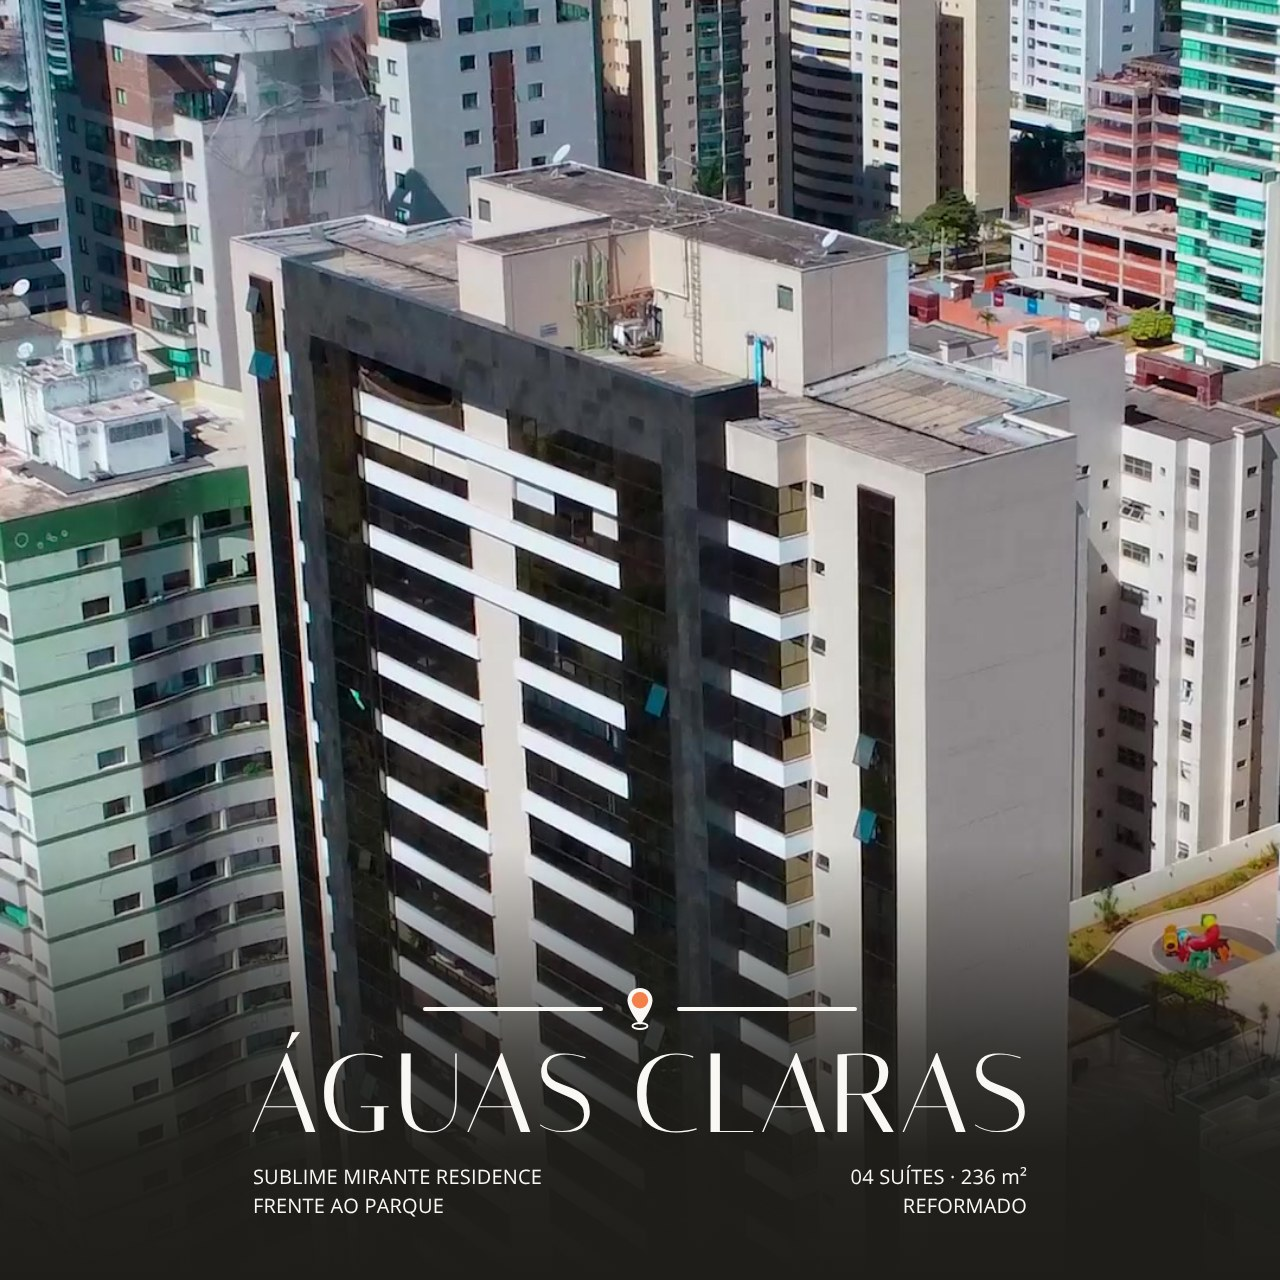
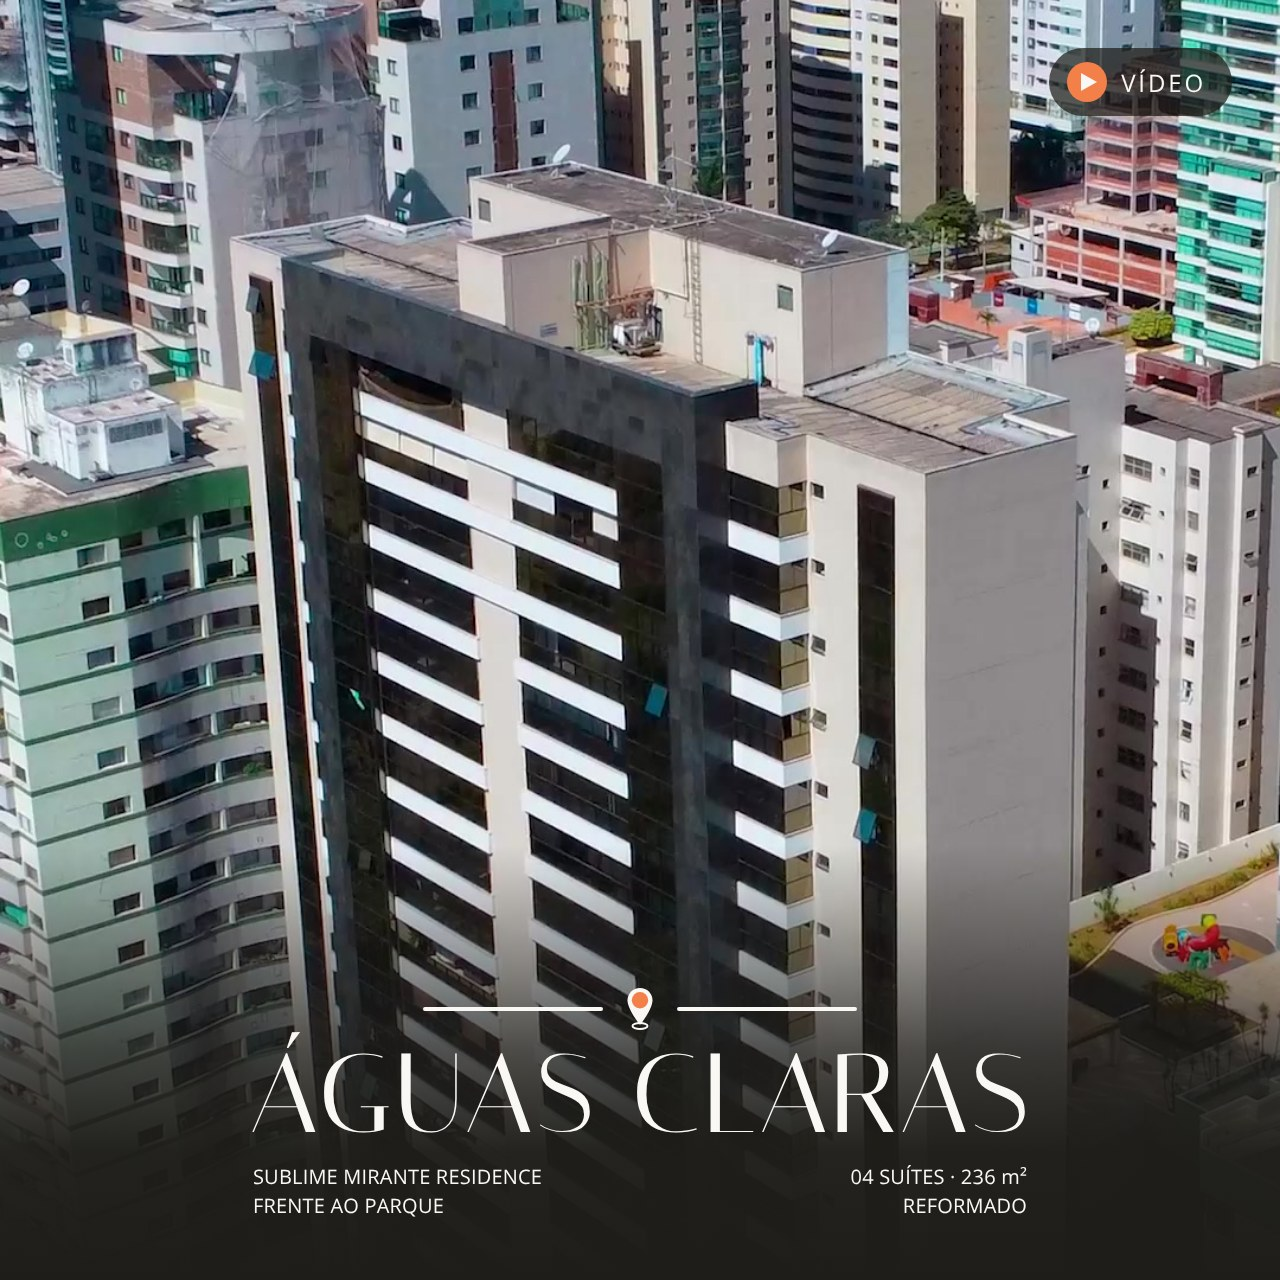
AC-0303: vídeo no anúncio, selo de vídeo na capa, escriturado e registrado com financiamento e FGTS (#23)
capas.js ganha o campo opcional capa.video (selo ▶ Vídeo no alto da capa).

Claude-Session: https://claude.ai/code/session_01SeCGvF7X5fSmi9onwu3fDq

Changed region(s): [[0.8125, 0.0312, 0.9688, 0.0938]]

diff --git a/docs/imoveis/AC-0303.html b/docs/imoveis/AC-0303.html
@@ -4,12 +4,12 @@
 <meta charset="utf-8">
 <meta name="viewport" content="width=device-width, initial-scale=1">
 <title>Apartamento com 4 suítes à venda em Águas Claras, DF · R$ 2,7 milhões</title>
-<meta name="description" content="Apartamento à venda em Águas Claras Norte, DF: 236 m² · 4 quartos · 4 vagas. R$ 2.700.000. Escriturado. Código AC-0303, com fotos. Fale com o corretor Fabrício Borges.">
+<meta name="description" content="Apartamento à venda em Águas Claras Norte, DF: 236 m² · 4 quartos · 4 vagas. R$ 2.700.000. Escriturado. Código AC-0303, com fotos e vídeo. Fale com o corretor Fabrício Borges.">
 <link rel="canonical" href="https://fabricioborgesimob.com.br/imoveis/AC-0303.html">
 <meta property="og:type" content="website">
 <meta property="og:site_name" content="Fabrício Borges · Negócios Imobiliários">
 <meta property="og:title" content="Apartamento com 4 suítes à venda em Águas Claras, DF · R$ 2,7 milhões">
-<meta property="og:description" content="Apartamento à venda em Águas Claras Norte, DF: 236 m² · 4 quartos · 4 vagas. R$ 2.700.000. Escriturado. Código AC-0303, com fotos. Fale com o corretor Fabrício Borges.">
+<meta property="og:description" content="Apartamento à venda em Águas Claras Norte, DF: 236 m² · 4 quartos · 4 vagas. R$ 2.700.000. Escriturado. Código AC-0303, com fotos e vídeo. Fale com o corretor Fabrício Borges.">
 <meta property="og:url" content="https://fabricioborgesimob.com.br/imoveis/AC-0303.html">
 <meta property="og:locale" content="pt_BR">
 <meta property="og:image" content="https://fabricioborgesimob.com.br/fotos/AC-0303/capa.jpg">
@@ -28,7 +28,7 @@ document.addEventListener('click',function(e){var a=e.target.closest&&e.target.c
 var p={origem:a.getAttribute('data-origem')||'link',pagina:location.pathname,imovel:a.getAttribute('data-codigo')||(document.body.getAttribute('data-codigo')||'')};
 if(a.href.indexOf('wa.me/5561995620101')>-1){gtag('event','contato_whatsapp',p);}else{gtag('event','contato_cvt',p);}},true);
 </script>
-<script type="application/ld+json">{"@context": "https://schema.org", "@type": "RealEstateListing", "name": "Apartamento de 236 m² com 4 suítes, reformado, de frente para o parque", "url": "https://fabricioborgesimob.com.br/imoveis/AC-0303.html", "description": "Acordar com o verde do Parque de Águas Claras na janela, numa vista que não vai ser tapada. Este apartamento de 236 m² no Sublime Mirante Residence passou por uma reforma completa assinada pela arquiteta Denise Zuba, com mármore em todo o piso, marcenaria Ornare e iluminação automatizada. É chegar e morar, sem obra e sem dor de cabeça.", "image": ["https://fabricioborgesimob.com.br/fotos/AC-0303/capa.jpg", "https://fabricioborgesimob.com.br/fotos/AC-0303/01.jpg", "https://fabricioborgesimob.com.br/fotos/AC-0303/02.jpg", "https://fabricioborgesimob.com.br/fotos/AC-0303/03.jpg", "https://fabricioborgesimob.com.br/fotos/AC-0303/04.jpg", "https://fabricioborgesimob.com.br/fotos/AC-0303/05.jpg"], "offers": {"@type": "Offer", "price": 2700000, "priceCurrency": "BRL", "availability": "https://schema.org/InStock", "url": "https://fabricioborgesimob.com.br/imoveis/AC-0303.html", "seller": {"@type": "RealEstateAgent", "name": "Fabrício Borges · Negócios Imobiliários", "url": "https://fabricioborgesimob.com.br", "telephone": "+55 61 99562-0101"}, "itemOffered": {"@type": "Apartment", "name": "Apartamento de 236 m² com 4 suítes, reformado, de frente para o parque", "floorSize": {"@type": "QuantitativeValue", "value": 236, "unitCode": "MTK"}, "numberOfRooms": 4, "address": {"@type": "PostalAddress", "addressLocality": "Águas Claras Norte", "addressRegion": "DF", "addressCountry": "BR"}}}}</script>
+<script type="application/ld+json">{"@context": "https://schema.org", "@type": "RealEstateListing", "name": "Apartamento de 236 m² com 4 suítes, reformado, de frente para o parque", "url": "https://fabricioborgesimob.com.br/imoveis/AC-0303.html", "description": "Acordar com o verde do Parque de Águas Claras na janela, numa vista que não vai ser tapada. Este apartamento de 236 m² no Sublime Mirante Residence passou por uma reforma completa assinada pela arquiteta Denise Zuba, com mármore em todo o piso, marcenaria Ornare e iluminação automatizada. É chegar e morar, sem obra e sem dor de cabeça. Imóvel escriturado e registrado: aceita financiamento bancário e uso do FGTS.", "image": ["https://fabricioborgesimob.com.br/fotos/AC-0303/capa.jpg", "https://fabricioborgesimob.com.br/fotos/AC-0303/01.jpg", "https://fabricioborgesimob.com.br/fotos/AC-0303/02.jpg", "https://fabricioborgesimob.com.br/fotos/AC-0303/03.jpg", "https://fabricioborgesimob.com.br/fotos/AC-0303/04.jpg", "https://fabricioborgesimob.com.br/fotos/AC-0303/05.jpg"], "offers": {"@type": "Offer", "price": 2700000, "priceCurrency": "BRL", "availability": "https://schema.org/InStock", "url": "https://fabricioborgesimob.com.br/imoveis/AC-0303.html", "seller": {"@type": "RealEstateAgent", "name": "Fabrício Borges · Negócios Imobiliários", "url": "https://fabricioborgesimob.com.br", "telephone": "+55 61 99562-0101"}, "itemOffered": {"@type": "Apartment", "name": "Apartamento de 236 m² com 4 suítes, reformado, de frente para o parque", "floorSize": {"@type": "QuantitativeValue", "value": 236, "unitCode": "MTK"}, "numberOfRooms": 4, "address": {"@type": "PostalAddress", "addressLocality": "Águas Claras Norte", "addressRegion": "DF", "addressCountry": "BR"}}}}</script>
 <script type="application/ld+json">{"@context": "https://schema.org", "@type": "BreadcrumbList", "itemListElement": [{"@type": "ListItem", "position": 1, "name": "Imóveis à venda", "item": "https://fabricioborgesimob.com.br/imoveis.html"}, {"@type": "ListItem", "position": 2, "name": "Águas Claras", "item": "https://fabricioborgesimob.com.br/regioes/aguas-claras.html"}, {"@type": "ListItem", "position": 3, "name": "Código AC-0303", "item": "https://fabricioborgesimob.com.br/imoveis/AC-0303.html"}]}</script>
 </head>
 <body data-codigo="AC-0303" class="com-barra">
@@ -65,10 +65,10 @@ if(a.href.indexOf('wa.me/5561995620101')>-1){gtag('event','contato_whatsapp',p);
 <div class="specs"><div><span>Área construída</span><strong>236 m²</strong></div><div><span>Quartos</span><strong>4 suítes</strong></div><div><span>Vagas</span><strong>4</strong></div></div>
 <section style="display:flex;flex-direction:column;gap:12px">
 <h2>Sobre o imóvel</h2>
-<p style="line-height:1.7;color:#33334A">Acordar com o verde do Parque de Águas Claras na janela, numa vista que não vai ser tapada. Este apartamento de 236 m² no Sublime Mirante Residence passou por uma reforma completa assinada pela arquiteta Denise Zuba, com mármore em todo o piso, marcenaria Ornare e iluminação automatizada. É chegar e morar, sem obra e sem dor de cabeça.</p>
-<div class="tags"><span>4 suítes, a master com closet e banheira</span><span>Sala ampla com entrada exclusiva, integrada à varanda com vista definitiva para o parque</span><span>Cozinha ampla com área de serviço separada</span><span>Piso em mármore Crema Marfil e sala revestida em mármore Travertino</span><span>Armários Ornare, portas e portais Cinex</span><span>Iluminação automatizada em LED e ar-condicionado de última geração</span><span>4 vagas, sendo 3 soltas</span><span>Lazer completo: piscina com raia, academia, sauna, cinema, quadra, salão de festas, espaço gourmet e playground</span><span>Perto do Shopping Felicità, do Comper, do Big Box 24h e da Bonapan</span><span>Entre duas estações do metrô, com saída rápida para a EPTG</span></div>
+<p style="line-height:1.7;color:#33334A">Acordar com o verde do Parque de Águas Claras na janela, numa vista que não vai ser tapada. Este apartamento de 236 m² no Sublime Mirante Residence passou por uma reforma completa assinada pela arquiteta Denise Zuba, com mármore em todo o piso, marcenaria Ornare e iluminação automatizada. É chegar e morar, sem obra e sem dor de cabeça. Imóvel escriturado e registrado: aceita financiamento bancário e uso do FGTS.</p>
+<div class="tags"><span>4 suítes, a master com closet e banheira</span><span>Sala ampla com entrada exclusiva, integrada à varanda com vista definitiva para o parque</span><span>Cozinha ampla com área de serviço separada</span><span>Piso em mármore Crema Marfil e sala revestida em mármore Travertino</span><span>Armários Ornare, portas e portais Cinex</span><span>Iluminação automatizada em LED e ar-condicionado de última geração</span><span>4 vagas, sendo 3 soltas</span><span>Lazer completo: piscina com raia, academia, sauna, cinema, quadra, salão de festas, espaço gourmet e playground</span><span>Perto do Shopping Felicità, do Comper, do Big Box 24h e da Bonapan</span><span>Entre duas estações do metrô, com saída rápida para a EPTG</span><span>Escriturado e registrado, aceita financiamento e FGTS</span></div>
 </section>
-<p><a href="https://www.youtube.com/@FabricioBorgesCorretorIm-sb5mb" rel="noopener" style="font-weight:600"><svg aria-hidden="true" width="18" height="18" viewBox="0 0 24 24" fill="none" stroke="currentColor" stroke-width="1.8"><rect x="2.5" y="5" width="19" height="14" rx="4"/><path d="M10 9.2v5.6l4.8-2.8z" fill="currentColor" stroke="none"/></svg> Veja os vídeos dos imóveis no meu canal do YouTube</a></p>
+<section style="display:flex;flex-direction:column;gap:12px"><h2>Vídeo do imóvel</h2><div class="video vertical"><iframe src="https://www.youtube-nocookie.com/embed/gqdadq8QqXs" title="Vídeo do imóvel AC-0303" loading="lazy" allow="accelerometer; encrypted-media; gyroscope; picture-in-picture" allowfullscreen></iframe></div><p style="font-size:15px;color:var(--texto-2)"><a href="https://www.youtube.com/watch?v=gqdadq8QqXs" rel="noopener">Assistir no YouTube</a></p><a href="https://www.youtube.com/@FabricioBorgesCorretorIm-sb5mb" rel="noopener" style="font-weight:600"><svg aria-hidden="true" width="18" height="18" viewBox="0 0 24 24" fill="none" stroke="currentColor" stroke-width="1.8"><rect x="2.5" y="5" width="19" height="14" rx="4"/><path d="M10 9.2v5.6l4.8-2.8z" fill="currentColor" stroke="none"/></svg> Ver mais vídeos no meu canal</a></section>
 <section class="doc-box doc-escriturado">
 <h2 style="font-size:22px">Situação do documento: escriturado</h2>
 <p style="line-height:1.6;color:#33334A">Este imóvel tem escritura e matrícula registradas em cartório. A compra pode ser financiada pelos bancos e a transferência é feita direto no cartório.</p>

diff --git a/ferramentas/capas.js b/ferramentas/capas.js
@@ -3,7 +3,8 @@
 // Imóveis com "canva" em "capa" usam a capa feita no Canva (cópia do modelo "Capa VP")
 // e salva em fotos/CODIGO/capa.jpg; este script não mexe nelas.
 // Campos de "capa": foto (caminho da foto de fundo), local (texto grande),
-// esquerda e direita (até 2 linhas cada), foco (posição da foto, ex. "50% 50%").
+// esquerda e direita (até 2 linhas cada), foco (posição da foto, ex. "50% 50%"),
+// video (true = selo "▶ Vídeo" no alto da capa, para anúncio com vídeo).
 const fs = require('fs');
 const path = require('path');
 const { chromium } = require('playwright');
@@ -32,9 +33,13 @@ body { width: 1280px; height: 1280px; position: relative; overflow: hidden; back
 h1 { font-family: Titulo; font-weight: 400; text-align: center; font-size: ${c.tamanho || 112}px; line-height: 1.05; letter-spacing: .02em; text-transform: uppercase; white-space: nowrap; margin-top: 4px; }
 .info { display: flex; justify-content: space-between; gap: 40px; margin-top: 8px; padding: 0 4px; font-family: Texto; font-size: 20px; letter-spacing: .01em; line-height: 1.45; }
 .info div:last-child { text-align: right; }
+.selo { position: absolute; top: 48px; right: 48px; display: flex; align-items: center; gap: 14px; padding: 14px 26px 14px 18px; border-radius: 999px; background: rgba(30,29,25,.72); color: #F9F8F4; font-family: Texto; font-size: 24px; letter-spacing: .12em; text-transform: uppercase; }
+.selo b { display: flex; align-items: center; justify-content: center; width: 40px; height: 40px; border-radius: 50%; background: #F38049; }
+.selo svg { width: 16px; height: 18px; margin-left: 3px; }
 </style></head><body>
 <img class="foto" src="${foto}">
 <div class="veu"></div>
+${c.video ? '<div class="selo"><b><svg viewBox="0 0 16 18"><path fill="#F9F8F4" d="M0 0v18l16-9z"/></svg></b>Vídeo</div>' : ''}
 <div class="base"><div class="bloco">
 <div class="pino"><i></i><svg viewBox="0 0 30 46"><ellipse cx="15" cy="40" rx="7.5" ry="3" fill="none" stroke="#F9F8F4" stroke-width="2"/><path fill="#F9F8F4" d="M15 2C8 2 2.5 7.5 2.5 14.3 2.5 23.5 15 39 15 39s12.5-15.5 12.5-24.7C27.5 7.5 22 2 15 2z"/><circle cx="15" cy="14.3" r="8.2" fill="#F38049"/></svg><i></i></div>
 <h1>${esc(c.local)}</h1>

diff --git a/docs/regioes/aguas-claras.html b/docs/regioes/aguas-claras.html
@@ -76,7 +76,7 @@ if(a.href.indexOf('wa.me/5561995620101')>-1){gtag('event','contato_whatsapp',p);
 <select name="ordem" style="width:auto"><option value="recentes">Mais recentes</option><option value="menor">Menor preço</option><option value="maior">Maior preço</option><option value="area">Maior área</option></select></label>
 </div>
 <div class="grade" data-lista><a class="card" href="../imoveis/AC-0303.html" data-tipo="Apartamento" data-regiao="aguas-claras" data-preco="2700000" data-quartos="4" data-doc="escriturado" data-area="236" data-ordem="0">
-<div class="card-foto"><img src="../fotos/AC-0303/capa.jpg" alt="Apartamento de 236 m² com 4 suítes, reformado, de frente para o parque" loading="lazy" style="object-position:50% 100%"><span class="selo selo-escriturado">Escriturado</span></div>
+<div class="card-foto"><img src="../fotos/AC-0303/capa.jpg" alt="Apartamento de 236 m² com 4 suítes, reformado, de frente para o parque" loading="lazy" style="object-position:50% 100%"><span class="selo selo-escriturado">Escriturado</span><span class="selo selo-video"><svg aria-hidden="true" width="18" height="18" viewBox="0 0 24 24" fill="none" stroke="currentColor" stroke-width="1.8"><rect x="2.5" y="5" width="19" height="14" rx="4"/><path d="M10 9.2v5.6l4.8-2.8z" fill="currentColor" stroke="none"/></svg> Vídeo</span></div>
 <div class="card-corpo">
 <span class="preco">R$ 2.700.000</span>
 <span class="card-titulo">Apartamento de 236 m² com 4 suítes, reformado, de frente para o parque</span>

diff --git a/docs/imoveis.html b/docs/imoveis.html
@@ -74,7 +74,7 @@ if(a.href.indexOf('wa.me/5561995620101')>-1){gtag('event','contato_whatsapp',p);
 <select name="ordem" style="width:auto"><option value="recentes">Mais recentes</option><option value="menor">Menor preço</option><option value="maior">Maior preço</option><option value="area">Maior área</option></select></label>
 </div>
 <div class="grade" data-lista><a class="card" href="imoveis/AC-0303.html" data-tipo="Apartamento" data-regiao="aguas-claras" data-preco="2700000" data-quartos="4" data-doc="escriturado" data-area="236" data-ordem="0">
-<div class="card-foto"><img src="fotos/AC-0303/capa.jpg" alt="Apartamento de 236 m² com 4 suítes, reformado, de frente para o parque" loading="lazy" style="object-position:50% 100%"><span class="selo selo-escriturado">Escriturado</span></div>
+<div class="card-foto"><img src="fotos/AC-0303/capa.jpg" alt="Apartamento de 236 m² com 4 suítes, reformado, de frente para o parque" loading="lazy" style="object-position:50% 100%"><span class="selo selo-escriturado">Escriturado</span><span class="selo selo-video"><svg aria-hidden="true" width="18" height="18" viewBox="0 0 24 24" fill="none" stroke="currentColor" stroke-width="1.8"><rect x="2.5" y="5" width="19" height="14" rx="4"/><path d="M10 9.2v5.6l4.8-2.8z" fill="currentColor" stroke="none"/></svg> Vídeo</span></div>
 <div class="card-corpo">
 <span class="preco">R$ 2.700.000</span>
 <span class="card-titulo">Apartamento de 236 m² com 4 suítes, reformado, de frente para o parque</span>

diff --git a/docs/index.html b/docs/index.html
@@ -73,7 +73,7 @@ if(a.href.indexOf('wa.me/5561995620101')>-1){gtag('event','contato_whatsapp',p);
 <div class="wrap">
 <div class="secao-cabeca"><h2>Imóveis à venda no DF</h2><a href="imoveis.html" style="font-weight:700">Ver todos os imóveis</a></div>
 <div class="grade grade-home"><a class="card" href="imoveis/AC-0303.html" data-tipo="Apartamento" data-regiao="aguas-claras" data-preco="2700000" data-quartos="4" data-doc="escriturado" data-area="236" data-ordem="0">
-<div class="card-foto"><img src="fotos/AC-0303/capa.jpg" alt="Apartamento de 236 m² com 4 suítes, reformado, de frente para o parque" loading="lazy" style="object-position:50% 100%"><span class="selo selo-escriturado">Escriturado</span></div>
+<div class="card-foto"><img src="fotos/AC-0303/capa.jpg" alt="Apartamento de 236 m² com 4 suítes, reformado, de frente para o parque" loading="lazy" style="object-position:50% 100%"><span class="selo selo-escriturado">Escriturado</span><span class="selo selo-video"><svg aria-hidden="true" width="18" height="18" viewBox="0 0 24 24" fill="none" stroke="currentColor" stroke-width="1.8"><rect x="2.5" y="5" width="19" height="14" rx="4"/><path d="M10 9.2v5.6l4.8-2.8z" fill="currentColor" stroke="none"/></svg> Vídeo</span></div>
 <div class="card-corpo">
 <span class="preco">R$ 2.700.000</span>
 <span class="card-titulo">Apartamento de 236 m² com 4 suítes, reformado, de frente para o parque</span>
